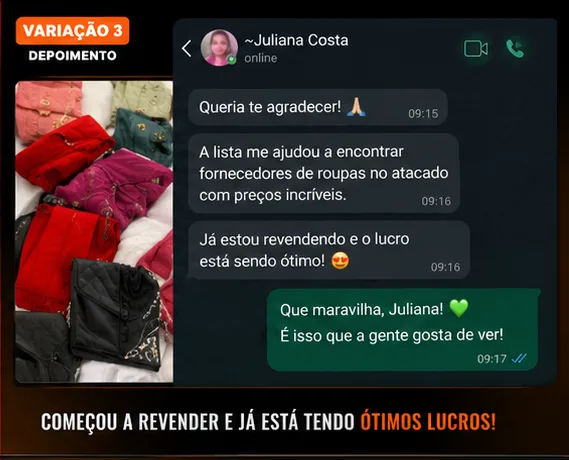
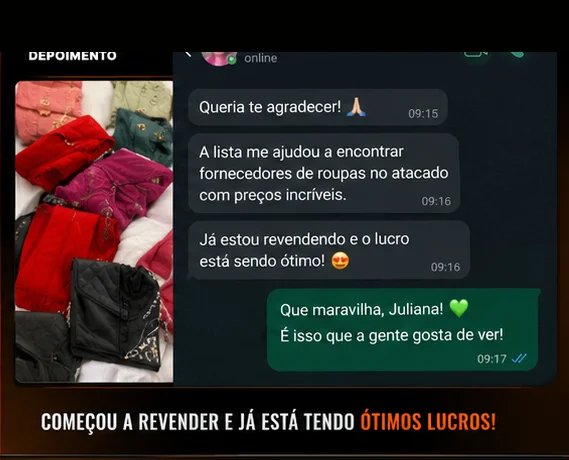
fix: remove label variacao dos depoimentos e carrossel so com dep4-9

Changed region(s): [[0.2988, 0.0304, 0.9859, 0.1217], [0.0, 0.0, 0.239, 0.1217]]

diff --git a/scripts/fix-depoimentos.js b/scripts/fix-depoimentos.js
@@ -1,0 +1,58 @@
+// Recorta os 6 depoimentos da grid e cobre o label "VARIAÇÃO X / DEPOIMENTO"
+// amostrando a cor de fundo e pintando um retângulo sobre a área do texto.
+const sharp = require("sharp");
+const path = require("path");
+
+const SRC = "C:/Users/conta/Downloads/ChatGPT Image 27_06_2026, 22_50_16.png";
+const OUT_DIR = path.join(__dirname, "../public/depoimentos");
+
+async function main() {
+  const meta = await sharp(SRC).metadata();
+  const W = meta.width;   // 1707
+  const H = meta.height;  // 921
+  const cols = 3, rows = 2;
+  const cellW = Math.floor(W / cols);
+  const cellH = Math.floor(H / rows);
+
+  // Área aproximada do label (top-left de cada célula)
+  // Ajuste LBL_H se o texto for mais alto/mais baixo
+  const LBL_X = 0, LBL_Y = 0;
+  const LBL_W = cellW, LBL_H = 52; // cobre a faixa do topo onde fica "VARIAÇÃO X"
+
+  let idx = 4;
+  for (let r = 0; r < rows; r++) {
+    for (let c = 0; c < cols; c++) {
+      // 1. Extrai a célula
+      const cell = await sharp(SRC)
+        .extract({ left: c * cellW, top: r * cellH, width: cellW, height: cellH })
+        .toBuffer();
+
+      // 2. Amostra a cor de fundo: pega um pixel no canto inferior-direito da faixa do label
+      //    (longe do texto mas dentro da mesma área de cor)
+      const samplePixel = await sharp(cell)
+        .extract({ left: cellW - 10, top: 8, width: 1, height: 1 })
+        .raw()
+        .toBuffer();
+      const [r2, g2, b2] = [samplePixel[0], samplePixel[1], samplePixel[2]];
+
+      // 3. Cria retângulo da cor de fundo para cobrir o label
+      const cover = await sharp({
+        create: { width: LBL_W, height: LBL_H, channels: 3, background: { r: r2, g: g2, b: b2 } }
+      }).png().toBuffer();
+
+      // 4. Compõe: cola o retângulo em cima do label
+      const clean = await sharp(cell)
+        .composite([{ input: cover, left: LBL_X, top: LBL_Y }])
+        .webp({ quality: 85 })
+        .toBuffer();
+
+      const outPath = path.join(OUT_DIR, `dep${idx}.webp`);
+      await require("fs").promises.writeFile(outPath, clean);
+      console.log(`dep${idx}.webp — fundo RGB(${r2},${g2},${b2})`);
+      idx++;
+    }
+  }
+  console.log("Pronto.");
+}
+
+main().catch(console.error);

diff --git a/src/app/page.tsx b/src/app/page.tsx
@@ -638,8 +638,7 @@ export default function FornecedoresPage() {
         <div style={{ overflow: "hidden", width: "100%" }}>
           <div className="dep-track">
             {[...Array(2)].flatMap(() =>
-              ["/depoimentos/dep1.webp","/depoimentos/dep2.webp","/depoimentos/dep3.webp",
-               "/depoimentos/dep4.webp","/depoimentos/dep5.webp","/depoimentos/dep6.webp",
+              ["/depoimentos/dep4.webp","/depoimentos/dep5.webp","/depoimentos/dep6.webp",
                "/depoimentos/dep7.webp","/depoimentos/dep8.webp","/depoimentos/dep9.webp"].map((src, i) => (
                 <div key={`${src}-${i}`} style={{ flexShrink: 0, width: isMobile ? "240px" : "300px", marginRight: isMobile ? "12px" : "16px", borderRadius: "14px", overflow: "hidden", boxShadow: "0 4px 20px rgba(0,0,0,0.12)", border: "1px solid #e5e7eb" }}>
                   {/* eslint-disable-next-line @next/next/no-img-element */}
